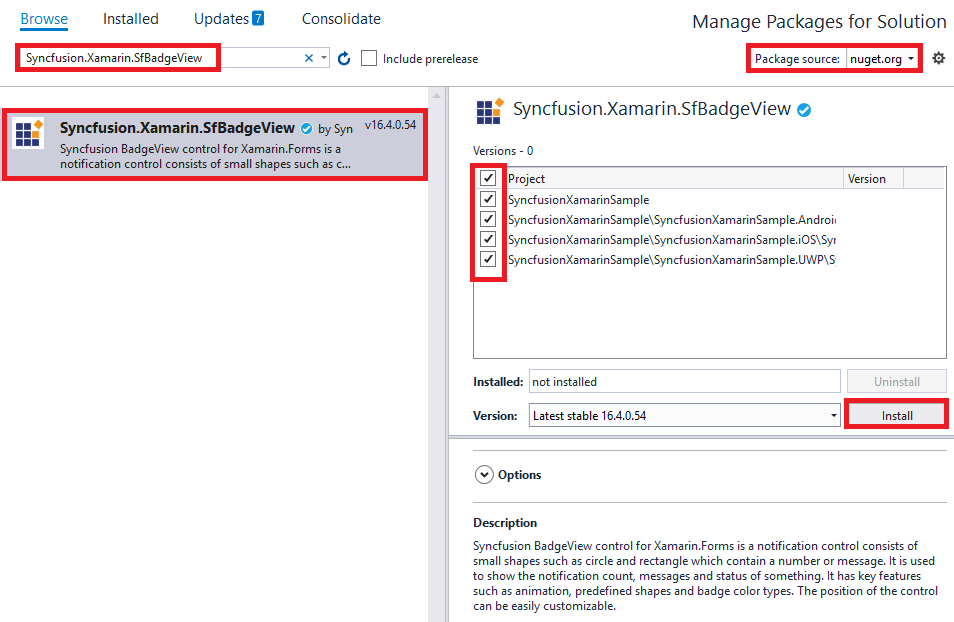
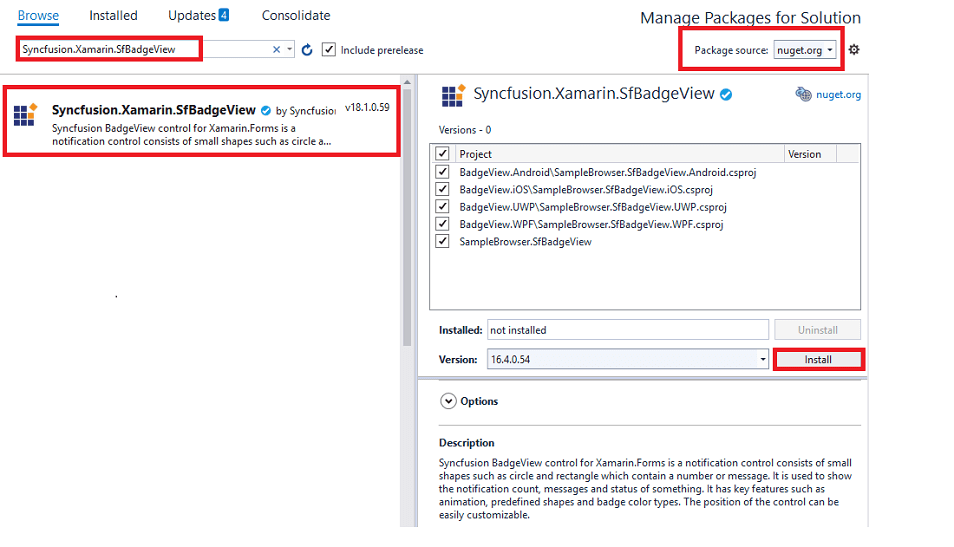
(XAMARIN-35750): Create UG for BadgeView. WPF platform support and change in other places

Changed region(s): [[0.0, 0.0, 1.0, 1.0]]

diff --git a/Xamarin/Maps/Markers.md b/Xamarin/Maps/Markers.md
@@ -156,6 +156,150 @@ The shape of a marker icons can be customized using the [`MarkerIcon`](https://h
 
 ![Marker Icon Image](Images/Marker_icon_type.png)
 
+## Marker items source
+
+`MarkerItemsSource` is recommended when using the custom map markers that are inherited from `MapMarker` and can only be used to assign markers in code behind. Use `Markers` property for the layer to add markers from XAML page.
+
+{% highlight xaml %}
+   <ResourceDictionary>
+            <DataTemplate x:Key="selectedMarker">
+                <StackLayout  Margin="50,0,0,0"  Orientation="Vertical" HorizontalOptions="End" VerticalOptions="Center" >
+                    <Image Source="pin.png" Scale="1" Aspect="AspectFit " HorizontalOptions="Center" VerticalOptions="Center"  HeightRequest="35" WidthRequest="25" />
+                    <Grid Margin="50,0,0,0">
+                        <Grid.RowDefinitions>
+                            <RowDefinition Height="60"/>
+                        </Grid.RowDefinitions>
+                        <Grid.ColumnDefinitions>
+                            <ColumnDefinition Width="60" />
+                            <ColumnDefinition Width="100"/>
+                        </Grid.ColumnDefinitions>
+                        <Grid Grid.Column="0" Margin="0" HorizontalOptions="Start" VerticalOptions="Start" BackgroundColor="#FFFF4411" >
+                            <Grid.RowDefinitions>
+                                <RowDefinition Height="35"/>
+                                <RowDefinition Height="25" />
+                            </Grid.RowDefinitions>
+                            <Grid  Grid.Row="0" HorizontalOptions="Start" VerticalOptions="Start">
+                                <Grid.ColumnDefinitions>
+                                    <ColumnDefinition Width="40"/>
+                                    <ColumnDefinition Width="10"/>
+                                </Grid.ColumnDefinitions>
+                                <Label FontSize="30" FontFamily="Segoe UI" WidthRequest="40"   Text="{Binding CurrentTemperature}" HorizontalOptions="Start" VerticalOptions="Start" TextColor="White"/>
+                                <Label Text="&#186;" Grid.Column="1" FontSize="13" WidthRequest="10"   TextColor="White" HorizontalOptions="Start" VerticalOptions="Start"/>
+                            </Grid>
+                            <Grid Grid.Row="1"  HorizontalOptions="Start"   VerticalOptions="Start">
+                                   <Grid.ColumnDefinitions>
+                                        <ColumnDefinition Width="13"/>
+                                        <ColumnDefinition Width="3"/>
+                                        <ColumnDefinition Width="3"/>
+                                        <ColumnDefinition Width="13"/>
+                                        <ColumnDefinition Width="6"/>
+                                    </Grid.ColumnDefinitions>
+                                    <Label FontSize="12"  FontFamily="Segoe UI" Text="{Binding AverageHighTemperature}"  HorizontalOptions="Start" VerticalOptions="Start"  TextColor="White"/>
+                                    <Label Text="&#186;" Grid.Column="1" FontSize="8" TextColor="White" HorizontalOptions="Start" VerticalOptions="Start"/>
+                                    <Label  Grid.Column="2" FontFamily="Segoe UI" Text="/" HorizontalOptions="Start" VerticalOptions="Start" TextColor="White" FontSize="10"/>
+                                    <Label FontSize="12" Grid.Column="3" FontFamily="Segoe UI"  Text="{Binding AverageLowTemperature}" HorizontalOptions="Start" VerticalOptions="Start" TextColor="White"/>
+                                    <Label Text="&#186;" Grid.Column="4" FontFamily="Segoe UI" FontSize="10" TextColor="White" HorizontalOptions="Start" VerticalOptions="Start"/>
+                            </Grid>
+                        </Grid>
+                        <Grid Grid.Column="1"  Margin="-6,0,0,0" BackgroundColor="LightGreen" HorizontalOptions="Start"  >
+                            <Grid.RowDefinitions>
+                                <RowDefinition Height="30"/>
+                                <RowDefinition Height="20"/>
+                            </Grid.RowDefinitions>
+                            <Label WidthRequest="100"  FontFamily="Segoe UI" Text="{Binding Label}" FontSize="20" HorizontalOptions="Start" VerticalOptions="Start" TextColor="Black" />
+                            <Label WidthRequest="100"  Grid.Row="1"  TextColor="Black" FontFamily="Segoe UI" Text="{Binding WeatherDescription}" HorizontalOptions="Start" FontSize="15" VerticalOptions="Start"/>
+                        </Grid>
+                    </Grid>
+                </StackLayout>
+            </DataTemplate>
+        </ResourceDictionary>
+
+       <maps:SfMaps x:Name="sfmap">
+        <maps:SfMaps.Layers >
+            <maps:ShapeFileLayer x:Name="shapeLayer" Uri="world1.shp" MarkerItemsSource="{Binding WeatherCollection}" MarkerTemplate="{StaticResource selectedMarker }" >
+                <maps:ShapeFileLayer.ShapeSettings>
+                    <maps:ShapeSetting ShapeFill="Gray" />
+                </maps:ShapeFileLayer.ShapeSettings>
+            </maps:ShapeFileLayer>
+        </maps:SfMaps.Layers>
+    </maps:SfMaps>
+
+{% endhighlight %}
+
+{% highlight c# %}
+
+    public partial class MainPage : ContentPage
+    {
+        public MainPage()
+        {
+		InitializeComponent();
+            ViewModel viewModel = new ViewModel();
+            this.BindingContext = viewModel;
+            SfMaps map = new SfMaps();
+            ShapeFileLayer layer = new ShapeFileLayer();
+            layer.Uri = "world1.shp";
+            layer.MarkerTemplate = Resources["selectedMarker"] as DataTemplate;
+            layer.MarkerItemsSource = viewModel.WeatherCollection;
+            map.Layers.Add(layer);
+            this.Content = map;
+        }
+    }
+
+    public class Weather: MapMarker
+
+    {
+        public int CurrentTemperature { get; set; }
+
+        public int AverageHighTemperature { get; set; }
+
+        public int AverageLowTemperature { get; set; }
+
+        public string Country { get; set; }
+
+       public string WeatherDescription { get; set; }
+
+    }
+    
+    public class ViewModel
+    {
+        public List<Weather> WeatherCollection {get;set;  }
+
+        public ViewModel()
+
+        {
+
+            WeatherCollection = new List<Weather>();
+
+            WeatherCollection.Add(new Weather() {CurrentTemperature = 44, AverageHighTemperature = 63, AverageLowTemperature = 46, Label = "Chicago",  WeatherDescription = "Partly Cloudy", Latitude = "41.878113N", Longitude = "-87.629799E" });
+
+            WeatherCollection.Add(new Weather() {  CurrentTemperature = 77, AverageHighTemperature = 89, AverageLowTemperature = 75, Label = "Chennai",  WeatherDescription = "Rainy", Latitude = "13.082680N", Longitude = "80.270721E" });
+
+            WeatherCollection.Add(new Weather() {  CurrentTemperature = 70, AverageHighTemperature = 70, AverageLowTemperature = 57, Label = "Tokyo", WeatherDescription = "Partly Cloudy", Latitude = "35.6833N", Longitude = "139.7667E" });
+
+            WeatherCollection.Add(new Weather() { CurrentTemperature = 55, AverageHighTemperature = 47, AverageLowTemperature = 38, Label = "Moscow",  WeatherDescription = "Clear", Latitude = "55.7517N", Longitude = "37.6178E" });
+
+            WeatherCollection.Add(new Weather() { CurrentTemperature = 53, AverageHighTemperature = 69, AverageLowTemperature = 54, Label = "Cape Town",  WeatherDescription = "Partly Cloudy", Latitude = "33.9767S", Longitude = "18.4244E" });
+
+            WeatherCollection.Add(new Weather() {  CurrentTemperature = 64, AverageHighTemperature = 69, AverageLowTemperature = 56, Label = "Anchorage", WeatherDescription = "Cloudy", Latitude = "61.1919N", Longitude = "149.7621W" });
+
+            WeatherCollection.Add(new Weather() {CurrentTemperature = 91, AverageHighTemperature = 95, AverageLowTemperature = 74, Label = "Panama",  WeatherDescription = "Fair", Latitude = "8.5380N", Longitude = "84.7821W" });
+
+            WeatherCollection.Add(new Weather() {  CurrentTemperature = 61, AverageHighTemperature = 76, AverageLowTemperature = 59, Label = "Sao Paulo",  WeatherDescription = "Fair", Latitude = "23.5000S", Longitude = "46.6167W" });
+
+            WeatherCollection.Add(new Weather() { CurrentTemperature = 70, AverageHighTemperature = 85, AverageLowTemperature = 72, Label = "Cairo",WeatherDescription = "Cloudy", Latitude = "33.2262E", Longitude = "30.0566N" });
+
+            WeatherCollection.Add(new Weather() { CurrentTemperature = 70, AverageHighTemperature = 85, AverageLowTemperature = 72, Label = "Melbourne", WeatherDescription = "Cloudy", Latitude = "35.0833S", Longitude = "142.0667E" });
+        }
+    
+    }
+
+{% endhighlight %}
+
+{% endtabs %}
+
+![Marker Items Source Image](Images/MarkerItemsSource.png)
+
+
 ### Setting a contrast color
 
 Based on the background color of the shapes, contrast color will be applied to marker icons.

diff --git a/Xamarin/Badge-View/Getting-Started.md b/Xamarin/Badge-View/Getting-Started.md
@@ -1,13 +1,13 @@
 ---
 layout: post
 title: Getting Started with Syncfusion Badge View control for Xamarin.Forms
-description: A quick tour about Syncfusion badge view control in Xamarin.Forms platform
+description: This section explains how to add SfBadgeView reference, lanching the control in each platform, and initializing the control
 platform: xamarin
 control: SfBadgeView
 documentation: ug
 ---
 
-# Getting Started
+# SfBadgeView Getting Started
 
 This section explains the steps required to configure the [`SfBadgeView`](https://help.syncfusion.com/cr/cref_files/xamarin/Syncfusion.SfBadgeView.XForms~Syncfusion.XForms.BadgeView.SfBadgeView.html) control and customize its elements.
 
@@ -50,6 +50,10 @@ Location: {Installed location}/{version}/Xamarin/lib
 <tr>
 <td>UWP</td>
 <td>Syncfusion.SfBadgeView.XForms.dll<br/>Syncfusion.SfBadgeView.XForms.UWP.dll<br/>Syncfusion.Core.XForms.dll<br/>Syncfusion.Core.XForms.UWP.dll<br/></td>
+</tr>
+<tr>
+<td>WPF</td>
+<td>Syncfusion.SfBadgeView.XForms.dll<br/>Syncfusion.SfBadgeView.XForms.WPF.dll<br/>Syncfusion.Core.XForms.dll<br/>Syncfusion.Core.XForms.WPF.dll<br/></td>
 </tr>
 </table>
 
@@ -104,6 +108,27 @@ protected override void OnLaunched(LaunchActivatedEventArgs e)
    } 
   … 
 }
+
+{% endhighlight %}
+
+### WPF
+
+To launch the badge view in WPF, call the SfBadgeViewRenderer.Init() in the constructor of the MainWindow class after the Xamarin.Forms framework has been initialized and before the LoadApplication is called as demonstrated in the following code sample.
+
+{% highlight C# %} 
+
+        public MainWindow()
+        {
+            InitializeComponent();
+            
+            Forms.Init();
+            
+            // Add the below line if you are using SfBadgeView.
+            
+            SfBadgeViewRenderer.Init();
+            
+            LoadApplication(new GettingStartedSample.App());
+        }
 
 {% endhighlight %}
 

diff --git a/Xamarin/Introduction/Control-Dependencies.md b/Xamarin/Introduction/Control-Dependencies.md
@@ -172,6 +172,10 @@ Syncfusion.Licensing.dll<br/>
 <td>UWP</td>
 <td>Syncfusion.SfBadgeView.XForms.dll<br/>Syncfusion.SfBadgeView.XForms.UWP.dll<br/>Syncfusion.Core.XForms.dll<br/>Syncfusion.Core.XForms.UWP.dll<br/></td>
 </tr>
+<tr>
+<td>WPF</td>
+<td>Syncfusion.SfBadgeView.XForms.dll<br/>Syncfusion.SfBadgeView.XForms.WPF.dll<br/>Syncfusion.Core.XForms.dll<br/>Syncfusion.Core.XForms.WPF.dll<br/></td>
+</tr>
 </table>
 
 ## SfBarcode

diff --git a/Xamarin/Introduction/xamarin-cross-platform-ui.md b/Xamarin/Introduction/xamarin-cross-platform-ui.md
@@ -1006,7 +1006,7 @@ You can find the platforms supported by each Xamarin.Forms UI control as below.
 		Yes<br/>
 		</td>
 		<td>
-		No<br/>
+		Yes<br/>
 		</td>
 		<td>
 		No<br/>
